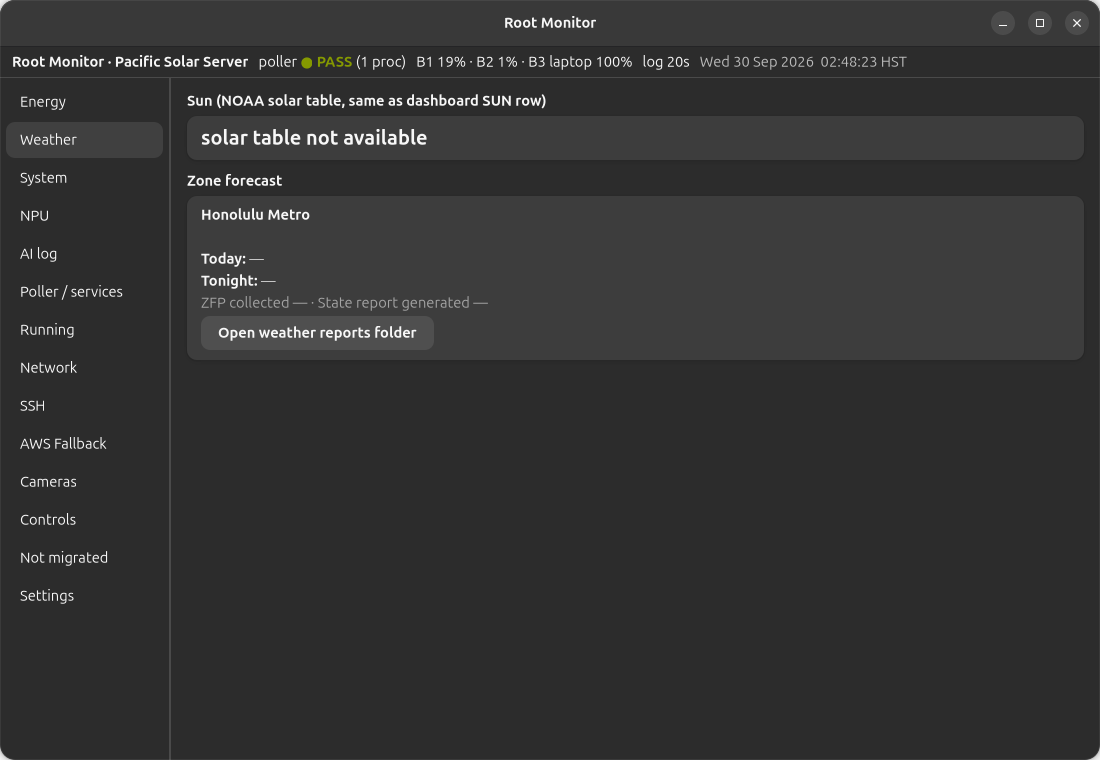
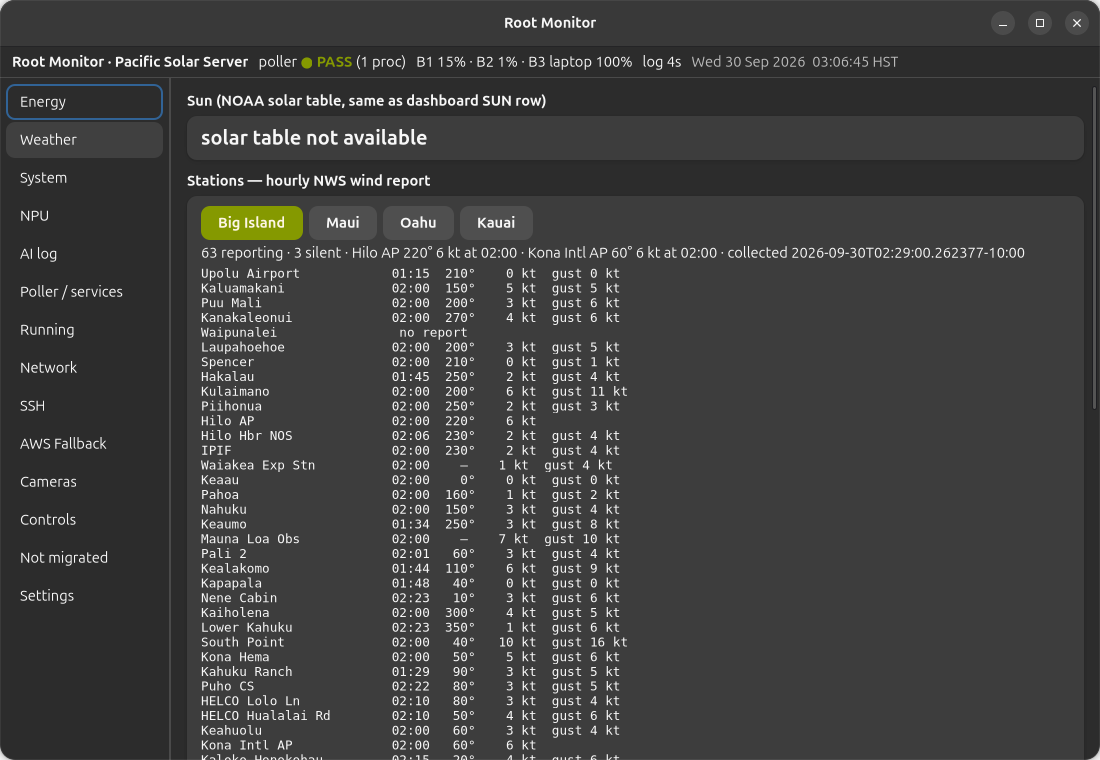
auto: 2026-09-30T13:07Z desk sync (3 file(s))

diff --git a/Guides & Tutorials/Root-Monitor-Operators-Handbook/Root-Monitor-Operators-Handbook.md b/Guides & Tutorials/Root-Monitor-Operators-Handbook/Root-Monitor-Operators-Handbook.md
@@ -95,15 +95,25 @@ Click a name. The page builds the first time you visit it, then stays until you 
 
 ### How to read the bars
 
-Battery, CPU, and RAM share one bar. Color is a percentage scale:
+Batteries and the host do not share a color scale.
 
-| Fill | Color | On a battery | On CPU or RAM |
-| --- | --- | --- | --- |
-| under 20% | red | low charge | a quiet CPU is red because the number is small, not because the host is failing |
-| 20% to 50% | amber | mid charge | mid use |
-| over 50% | green | healthy charge | heavier use |
+**Charge** (B1, B2, the laptop): low is bad.
 
-On this capture, CPU at 4.7% is a short red bar. That is a quiet machine. B1 at 18.5% is red because the River is low. B3 at 100% is a full green bar because the laptop is on AC and full.
+| Fill | Color |
+| --- | --- |
+| under 20% | red |
+| 20% to 50% | amber |
+| over 50% | green |
+
+**Use** (CPU, RAM): low is good. Red starts at 80%.
+
+| Fill | Color |
+| --- | --- |
+| under 50% | green |
+| 50% up to 80% | amber |
+| 80% and above | red |
+
+On the 02:48 energy capture, B1 at 18.5% is red because the River is low. B3 at 100% is a full green bar because the laptop is on AC and full. On the later system capture, CPU at 3.6% is a short green bar and RAM at 70% is amber, because 70 is under the 80% red line.
 
 ### On / off controls are buttons
 
@@ -173,22 +183,25 @@ At 02:48 the heartbeat was live: `B2=1% B1=19.8% solar=0 W ac=57 W usbc=0 W`, la
 
 ## Weather
 
-![Weather page, forecast files empty at 02:48](media/02-weather.png)
+![Weather opens on Big Island stations](media/02-weather.png)
 
-Two cards.
+Three cards. The island defaults to **Big Island**.
 
-**Sun** uses the same NOAA solar table as the dashboard SUN row. On this capture: `solar table not available`. When the table is present, this line is the sun state (day, night, twilight) in large type.
+**Sun** uses the same NOAA solar table as the dashboard SUN row. On this capture: `solar table not available`. When the table is present, this line is the sun state in large type.
 
-**Zone forecast** defaults to **Honolulu Metro** (`weather_zone` in `settings.json`). It shows Today, Tonight, advisories in amber, then when the zone forecast (ZFP) was collected and when the state report was generated. On this capture every one of those was a dash. The files it reads are:
+**Stations** is the hourly NWS wind report (`oso_hourly_obs_current.md`). Four buttons sit on the card: **Big Island**, **Maui**, **Oahu**, **Kauai**. The selected one is green. A click saves `weather_zone` immediately, so the next launch stays on that island. Big Island is the file's "Hawaii" group.
 
-- `Weather/Hawai'i/reports/0 Level Processing/zfp_zone_forecast_current.md`
-- the head of `Hawaii_State_Weather_Report_current.md`
+On the 03:05 HST capture the summary read:
 
-The forecast is re-read only when the file's modification time changes. An empty page means those reports were not on disk in a form the parser could use, not that Honolulu had no weather.
+> 63 reporting · 3 silent · Hilo AP 220° 6 kt at 02:00 · Kona Intl AP 60° 6 kt at 02:00
 
-**Open weather reports folder** opens that reports directory with the desktop file manager.
+The list under that is every station for the island, in the order NWS prints them: location, time, direction, speed, gust. A station with no observation says `no report`. Scroll for the rest, including Kona. Maui, Oahu, and Kauai are the same report filtered to that island. The headline station on those islands is Kahului AP, Honolulu AP, and Lihue.
 
-Change the zone name under **Settings → Panel → Weather zone**, then **Save settings**.
+**Zone forecast** is still Today, Tonight, and advisories, when `zfp_zone_forecast_current.md` is on disk. For Big Island it uses the blocks whose titles contain "Big Island" (windward and leeward). That file was not on disk at capture, so the card says so and points you at the station list. The state report's generated time is appended when `Hawaii_State_Weather_Report_current.md` is present.
+
+**Open weather reports folder** opens that reports directory.
+
+The same island name is on **Settings → Panel** as "Weather island". The buttons on this page are the control you use.
 
 ---
 
@@ -198,15 +211,17 @@ Change the zone name under **Settings → Panel → Weather zone**, then **Save 
 
 **Host** reads `System/last/host-last.json`.
 
-| | This capture |
+| | This capture (03:05 HST) |
 | --- | --- |
-| CPU | 4.7% (5-minute average 4.4%). Red bar because 4.7 is under 20. The machine is idle. |
-| RAM | 68.0% used. 4.9 GB available of 15.2 GB. 5-minute average 67.4%. Green bar. |
-| Load | 0.80 / 1.23 / 1.26 |
+| CPU | 3.6% (5-minute average 12.0%). Short **green** bar. Under 50% is quiet. |
+| RAM | 70.1% used. 4.6 GB available of 15.2 GB. 5-minute average 72.3%. **Amber**, because 70 is between 50 and 80. |
+| Load | 0.86 / 0.97 / 1.03 |
 | Host | `rootrecord-software-solutions` |
-| Sampled | 02:48:02 HST, 26 seconds old |
+| Sampled | 03:04:13 HST |
 
-**Poller SYSTEM line** is the latest SYSTEM heartbeat in the automations log. Here: `cpu=5% load=0.80 mem=68% src=sqlite`.
+The line under the bars states the scale: green under 50%, amber from 50%, red at 80% and above. A red CPU or RAM bar means that number is at least 80%.
+
+**Poller SYSTEM line** is the latest SYSTEM heartbeat in the automations log. Here: `cpu=4% load=0.86 mem=70% src=sqlite`.
 
 If the host card and the SYSTEM line disagree by a lot, the host card is the JSON sample and the line is whatever the poller last wrote. Both ages are on screen. Trust the newer one, then look at Poller / services if the log age in the header is large.
 
@@ -708,7 +723,7 @@ This sub-page is not the registry list. It edits Root Monitor's own `settings.js
 | Refresh interval | 5 s (range 2–60) |
 | Mark SOC stale after | 900 s |
 | Poller log lines shown | 40 |
-| Weather zone | Honolulu Metro |
+| Weather island | Big Island (buttons on the Weather page; also Maui, Oahu, Kauai) |
 | Start page | energy. Cameras is refused as a start page. |
 | GTK renderer | `cairo` (lightest). Applies on next start. |
 | Starlink | On, poll 10 s minimum. Does nothing without the helper venv. |
@@ -774,7 +789,7 @@ The poller was PASS, one process, pid 3096, log written within the last minute. 
 
 B1 River 2 Pro was at 18.5% and fresh over BLE, AC out 34 W, USB-C out 17 W, solar 0 W. B2 Delta 2 was at 1% and the sample was 1 hour 55 minutes old, source API, so it was marked STALE. The laptop was full and on AC. The Delta expansion field was absent from the ENERGY line.
 
-The host was idle: CPU about 5%, RAM 68%, load under 1.3. NPU `accel0` present, FLM idle, lock idle. AI log had 11 old NPU requests and none since midnight. Weather reports and the solar table were empty. Wi-Fi `wlo1` was up with a quiet instant rate and hundreds of megabytes since boot. Starlink was a placeholder because the helper venv is not installed. `rr-aws` has a ProxyCommand whose binary is missing; `rr-aws-ip` is the direct host. AWS Fallback was in **write** mode and had not been read yet this session. Cameras had four fresh stills on disk and the viewer was off on disk. Risky actions were off. Sixteen migration placeholders were still open.
+The host was idle: CPU a few percent (green), RAM around 70% (amber, under the 80% red line), load under 1.3. NPU `accel0` present, FLM idle, lock idle. AI log had 11 old NPU requests and none since midnight. Weather opens on Big Island stations from the hourly wind report (Hilo and Kona were both reporting). The zone-forecast file was not on disk, and the solar table was empty. Wi-Fi `wlo1` was up with a quiet instant rate and hundreds of megabytes since boot. Starlink was a placeholder because the helper venv is not installed. `rr-aws` has a ProxyCommand whose binary is missing; `rr-aws-ip` is the direct host. AWS Fallback was in **write** mode and had not been read yet this session. Cameras had four fresh stills on disk and the viewer was off on disk. Risky actions were off. Sixteen migration placeholders were still open.
 
 ---
 
@@ -785,8 +800,10 @@ The host was idle: CPU about 5%, RAM 68%, load under 1.3. NPU `accel0` present, 
 | Header poller **FAIL** | The poller process or its unit is not in the expected state. Open Poller / services. The panel will not restart it. |
 | Log age climbing | `automations_current.log` is not being written. Same page, then the log view. |
 | **STALE** under B1 or B2 | That pack's last JSON is older than `stale_after_sec` (15 minutes). Check BLE on the services page and `ble-owner.py` on Running. |
-| Red CPU bar at a small percent | The bar's red zone is "under 20%". A quiet CPU is red. Read the number. |
-| Weather dashes | The zone forecast file or the state report was missing or unparsed. The button opens the reports folder. |
+| CPU or RAM bar red | That reading is 80% or higher. Under 50% is green. Between 50 and 80 is amber. |
+| Battery bar red | That pack is under 20%. Full charge is green. The battery scale is the opposite of CPU and RAM. |
+| Weather station list empty | `oso_hourly_obs_current.md` is missing. The reports-folder button opens the directory. |
+| Today and Tonight are dashes | The zone forecast file `zfp_zone_forecast_current.md` is not on disk. The station list above it is still the live report. |
 | Starlink: placeholder | `Apps/Control-Panel/Starlink/.venv` is not there. |
 | Starlink: not reachable | Helper ran and the dish at `192.168.100.1:9200` did not answer. |
 | SSH rr-aws FAIL immediately | ProxyCommand binary missing, as the row already says. Try rr-aws-ip. |
